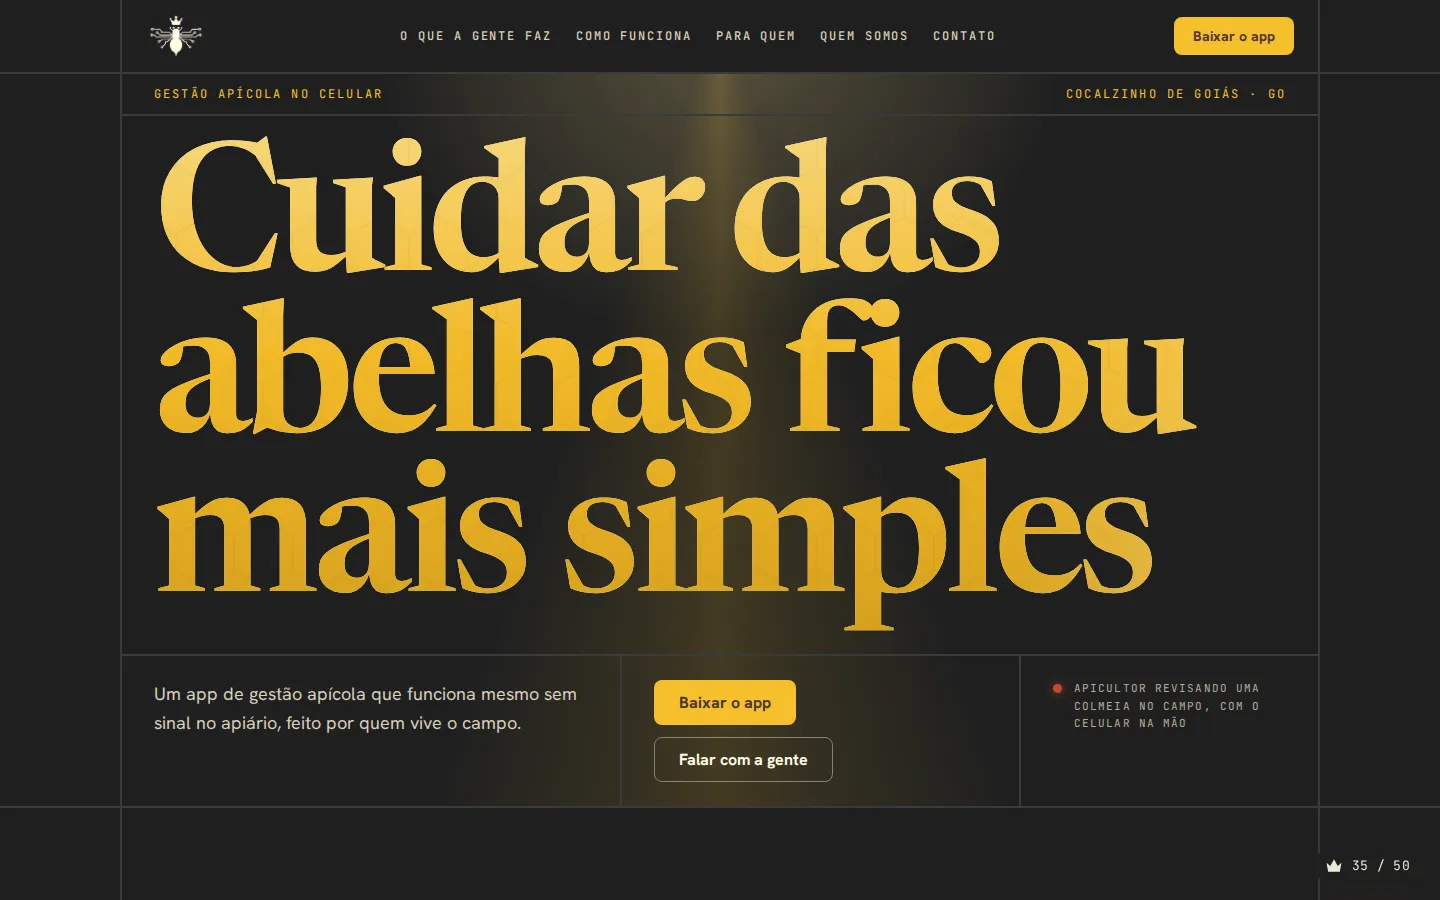
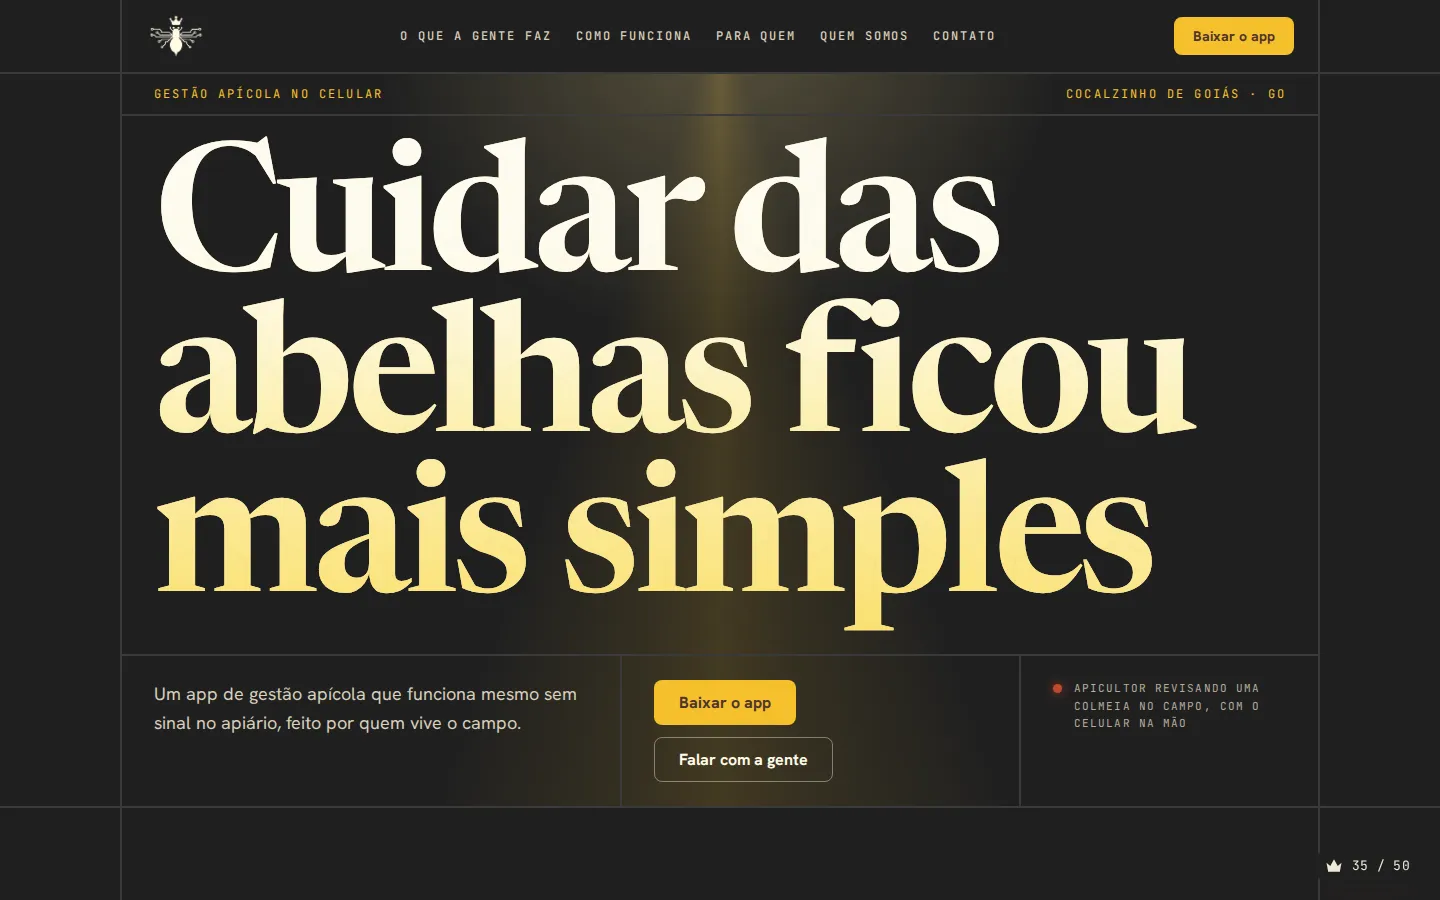
Corrige revisão da família cinema (33–35): CTAs da lanterna, letreiro acessível e foto visível na projeção

Changed region(s): [[0.0938, 0.1556, 0.8438, 0.7156]]

diff --git a/templates/35-projecao.html b/templates/35-projecao.html
@@ -90,14 +90,20 @@
     @supports ((-webkit-background-clip: text) or (background-clip: text)) {
       .titulo-projecao {
         color: transparent;
+        /* Camadas (de cima para baixo): brilho do projetor; tinta mel leve em soft-light;
+           faixa mel (multiply, só na metade de baixo, alfa .5); véu creme em screen, que garante luminância mínima (contraste ≥ 3:1 sobre o grafite) mesmo com foto escura;
+           a foto do hero. A foto aparece; a tinta só aquece. */
         background-image:
-          linear-gradient(100deg, rgba(255, 251, 230, 0) 30%, rgba(255, 251, 230, .55) 46%, rgba(255, 251, 230, 0) 62%),
-          linear-gradient(180deg, #FBE08C 0%, #F5C02C 45%, #D9A521 100%),
+          linear-gradient(100deg, rgba(255, 251, 230, 0) 30%, rgba(255, 251, 230, .5) 46%, rgba(255, 251, 230, 0) 62%),
+          linear-gradient(180deg, rgba(251, 224, 140, .75) 0%, rgba(245, 192, 44, .65) 55%, rgba(217, 165, 33, .7) 100%),
+          linear-gradient(180deg, rgba(245, 192, 44, 0) 25%, rgba(245, 192, 44, .5) 100%),
+          linear-gradient(rgba(255, 251, 230, .5), rgba(255, 251, 230, .5)),
           var(--foto);
-        background-size: 260% 100%, 100% 100%, 150% auto;
-        background-position: 0% 50%, 0 0, 30% 0%;
-        background-repeat: no-repeat, no-repeat, repeat;
-        background-blend-mode: normal, multiply, normal;
+        background-size: 260% 100%, 100% 100%, 100% 100%, 100% 100%, 180% auto;
+        background-position: 0% 50%, 0 0, 0 0, 0 0, 20% 0%;
+        background-repeat: no-repeat, no-repeat, no-repeat, no-repeat, repeat;
+        background-blend-mode: normal, soft-light, multiply, screen, normal;
+        background-color: #8A6A1E;
         -webkit-background-clip: text; background-clip: text;
       }
     }
@@ -597,12 +603,12 @@
           // Efeito principal: a imagem dentro das letras desliza com o scroll
           // (a foto desce e atravessa; o brilho do projetor varre as letras).
           gsap.fromTo(titulo,
-            { backgroundPosition: '0% 50%, 0% 0%, 30% 0%' },
-            { backgroundPosition: '100% 50%, 0% 0%, 70% 100%', ease: 'none',
+            { backgroundPosition: '0% 50%, 0% 0%, 0% 0%, 0% 0%, 20% 0%' },
+            { backgroundPosition: '100% 50%, 0% 0%, 0% 0%, 0% 0%, 80% 100%', ease: 'none',
               scrollTrigger: { trigger: '[data-secao="hero"]', start: 'top top', end: 'bottom top', scrub: 0.6 } });
 
           // Ao abrir, o projetor "acende": o brilho varre o título uma vez.
-          gsap.from(titulo, { backgroundPosition: '-60% 50%, 0% 0%, 30% 0%', duration: 1.1, ease: 'power2.out', clearProps: 'backgroundPosition' });
+          gsap.from(titulo, { backgroundPosition: '-60% 50%, 0% 0%, 0% 0%, 0% 0%, 20% 0%', duration: 1.1, ease: 'power2.out', clearProps: 'backgroundPosition' });
           gsap.from('.feixe', { scaleY: 0.4, transformOrigin: '50% 0%', duration: 1.1, ease: 'power2.out' });
 
           // Sparklines se desenham quando a linha entra na tela.

diff --git a/templates/34-letreiro.html b/templates/34-letreiro.html
@@ -110,6 +110,13 @@
       display: grid; grid-template-columns: minmax(0, 1fr) auto; gap: var(--sp-6); align-items: end;
       margin-top: var(--sp-6); padding-top: var(--sp-5); border-top: 1px solid rgba(255, 251, 230, .16);
     }
+    /* Movimento reduzido: o título não corre, então quebra linha e as cópias somem */
+    @media (prefers-reduced-motion: reduce) {
+      .letreiro--titulo { white-space: normal; overflow: visible; }
+      .letreiro--titulo .trilho { width: auto; display: block; padding-inline: 16px; }
+      .letreiro--titulo [data-copia] { display: none; }
+      .letreiro--titulo .frase::after { display: none; }
+    }
     .hero__placa .dr-eyebrow { color: var(--mel); margin-bottom: var(--sp-3); }
     .hero__placa p:last-child { max-width: 48ch; font-size: var(--fs-body-lg); line-height: 1.6; color: #D8CFBB; }
     .acoes { display: flex; flex-wrap: wrap; gap: var(--sp-3); }
@@ -258,7 +265,7 @@
 
     <!-- SEÇÃO: hero (frases da marca em letreiro contínuo, sentidos alternados) -->
     <section data-secao="hero" id="inicio">
-      <div class="letreiro faixa-mono" data-sentido="1" data-vel="40" aria-hidden="true">
+      <div class="letreiro faixa-mono" data-sentido="1" data-vel="40">
         <div class="trilho"><span class="frase" data-c="hero.eyebrow"></span><span class="frase" data-c="rodape.endereco"></span></div>
       </div>
       <div class="lampadas" aria-hidden="true"></div>
@@ -598,7 +605,8 @@
         var letreiros = Array.prototype.slice.call(document.querySelectorAll('.letreiro')).map(function (el) {
           return { el: el, trilho: el.querySelector('.trilho'), passo: 0, x: 0,
                    sentido: Number(el.getAttribute('data-sentido')) || -1,
-                   vel: Number(el.getAttribute('data-vel')) || 50 };
+                   vel: Number(el.getAttribute('data-vel')) || 50,
+                   bloco: el.closest('[data-secao="hero"], .cruzados') || el };
         });
         function montarTodos() { letreiros.forEach(function (l) { l.passo = montarLetreiro(l.el); }); }
         montarTodos();
@@ -629,8 +637,10 @@
           function passo(t, dt) {
             var seg = Math.min(dt, 64) / 1000;
             impulso += (1 - impulso) * Math.min(1, seg * 2.2); // volta devagar ao ritmo de cruzeiro
+            // WCAG 2.2.2: a linha sob o mouse para; com o foco do teclado no hero (ou nos cruzados), tudo para.
             letreiros.forEach(function (l) {
               if (!l.passo) return;
+              if (l.el.matches(':hover') || l.bloco.matches(':focus-within')) return;
               l.x += l.sentido * direcao * l.vel * impulso * seg;
               // laço: mantém x em (-passo, 0]
               l.x = ((l.x % l.passo) - l.passo) % l.passo;

diff --git a/templates/33-lanterna.html b/templates/33-lanterna.html
@@ -47,7 +47,7 @@
     .escuro .dr-body, .escuro .dr-body-lg { color: #D8CFBB; }
     .escuro .dr-eyebrow { color: var(--mel); }
     .escuro .dr-caption { color: var(--tenue); }
-    .escuro a { color: var(--mel-claro); }
+    .escuro a:not(.dr-btn) { color: var(--mel-claro); }
     .escuro a:focus-visible, .escuro button:focus-visible, .escuro .dr-btn:focus-visible { outline-color: var(--mel); }
 
     /* ---------- N8: botão coroa no canto que expande em leque ---------- */
@@ -99,7 +99,11 @@
               mask-image: radial-gradient(circle var(--raio, 380px) at var(--mx, 34%) var(--my, 44%), #000 0, #000 38%, rgba(0, 0, 0, .55) 62%, transparent 100%);
     }
     /* só escurece quando a lanterna está ligada (JS, fora do movimento reduzido) */
-    .lanterna-ligada .camada--sombra { filter: brightness(.3) saturate(.5); }
+    /* os CTAs ficam fora do filtro (como a logo): sempre encontráveis com o mouse parado */
+    .lanterna-ligada .camada--sombra .dr-eyebrow,
+    .lanterna-ligada .camada--sombra .titulo-lanterna,
+    .lanterna-ligada .camada--sombra .cena__sub,
+    .lanterna-ligada .camada--sombra .cena__tela { filter: brightness(.3) saturate(.5); }
     .lanterna-ligada {
       background:
         radial-gradient(circle calc(var(--raio, 380px) * 1.2) at var(--mx, 34%) var(--my, 44%), rgba(245, 192, 44, .14), transparent 70%),
